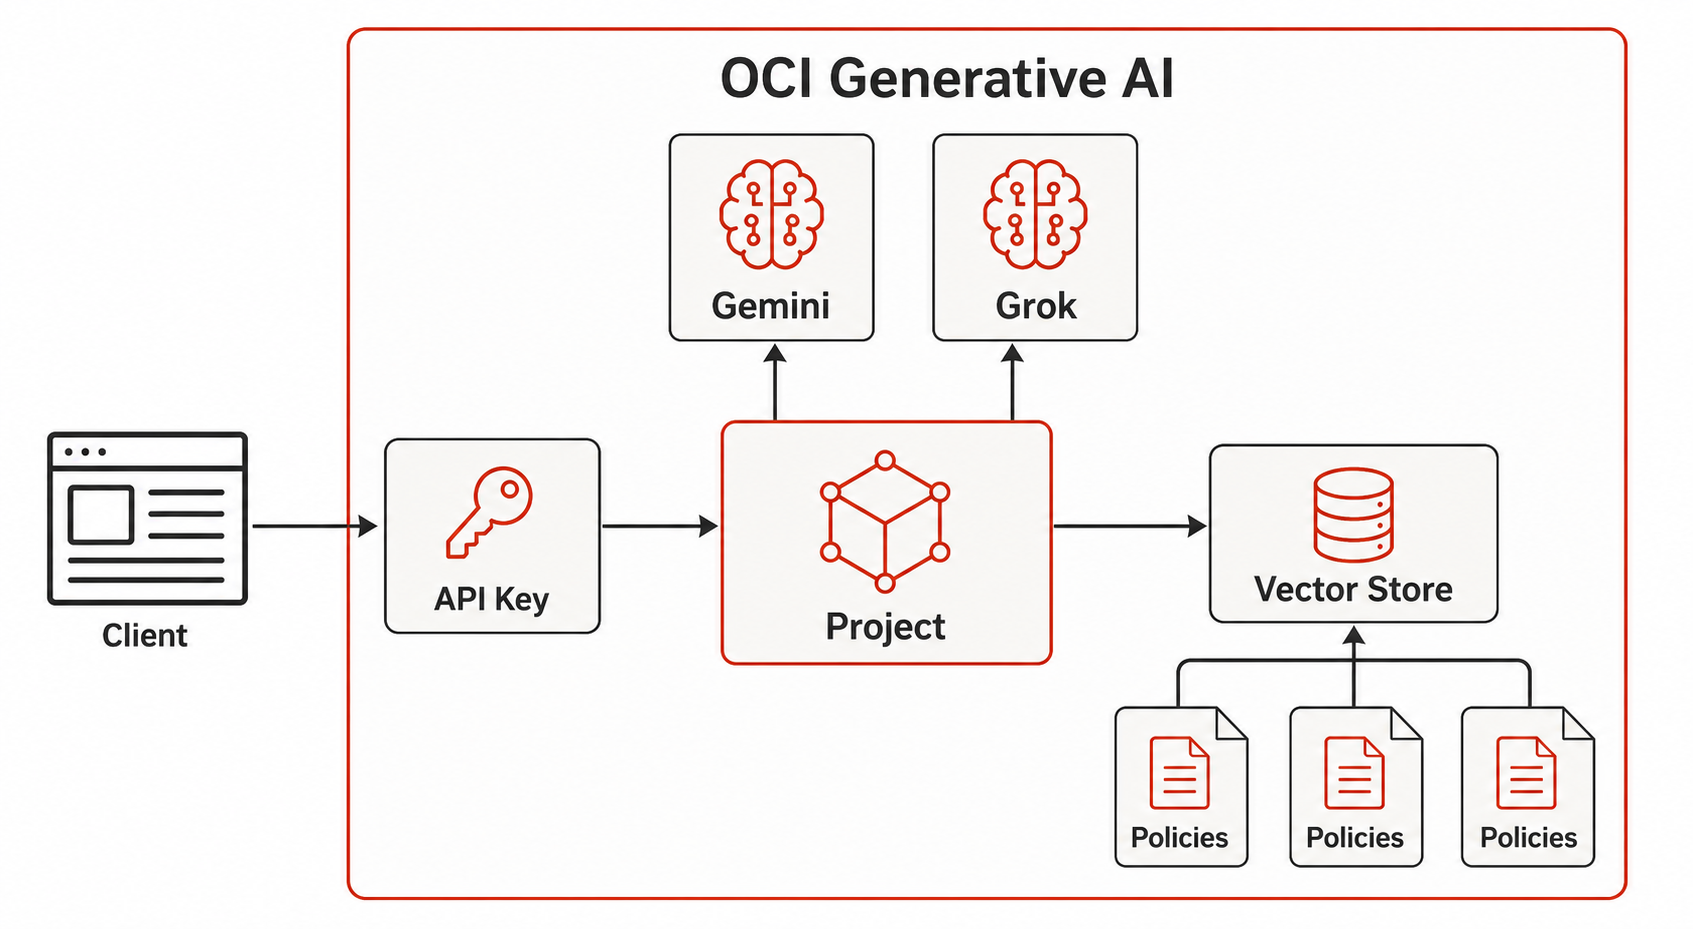
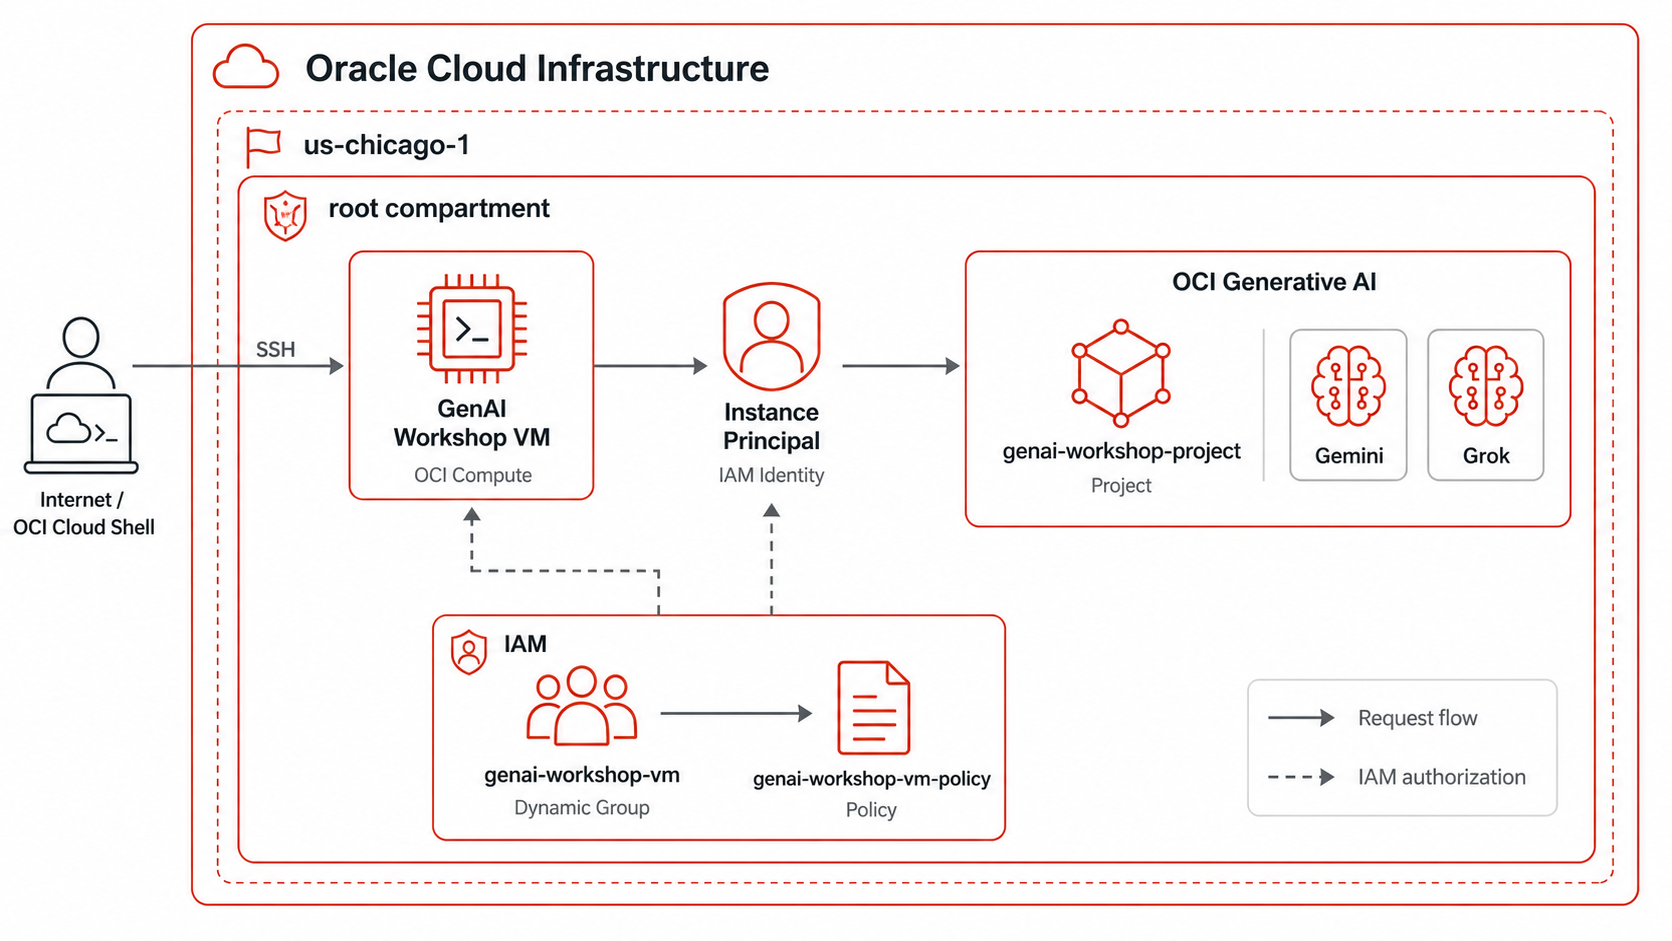
Improve OCI GenAI architecture diagrams

Changed region(s): [[0.0, 0.0, 0.9952, 0.9677], [0.1866, 0.718, 0.2177, 0.8116], [0.1866, 0.8428, 0.2177, 0.8741]]

diff --git a/README.md b/README.md
@@ -422,6 +422,8 @@ cat data/results/solicitud-001/reservation_decision.json
 
 En una tenancy con cuota disponible, ChromaDB podría reemplazarse por OCI Vector Store y File Search. En este workshop se usa ChromaDB por la limitación de Free Trial; el principio RAG es el mismo: recuperar evidencia relevante antes de pedir la conclusión al modelo.
 
+![Arquitectura del workaround RAG para Free Trial](assets/oci-genai-architecture-free-trial-workaround.png)
+
 ### Caso aprobado: solicitud-002
 
 La carpeta `data/submissions/solicitud-002` contiene documentos ficticios, completos y coherentes entre sí: la misma estudiante, código de postulante y periodo `2026-I`. Ejecuta el flujo completo para obtener una reserva aprobada conforme a las políticas indexadas:
